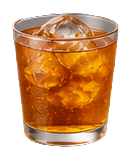
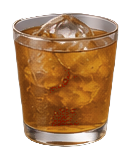
Add files via upload

diff --git a/public/app.js b/public/app.js
@@ -2525,6 +2525,10 @@ function touchDrinkLineup() {
   db.drinkLineupUpdated = Math.max(Date.now(), Number(db.drinkLineupUpdated || 0) + 1);
   db.updated = Math.max(Date.now(), Number(db.updated || 0) + 1);
 }
+function touchDrinkRecipes() {
+  db.drinkRecipesUpdated = Math.max(Date.now(), Number(db.drinkRecipesUpdated || 0) + 1);
+  db.updated = Math.max(Date.now(), Number(db.updated || 0) + 1);
+}
 async function syncDrinkLineup() {
   const response = await fetch('/api/drink-lineup', {
     method: 'PUT', headers: { 'Content-Type': 'application/json' },
@@ -2536,6 +2540,65 @@ async function syncDrinkLineup() {
   db.drinkLineup = Array.isArray(result.drinkLineup) ? result.drinkLineup : db.drinkLineup;
   db.drinkLineupUpdated = Number(result.drinkLineupUpdated || Date.now());
   saveLocalDb();
+}
+
+// ドリンク商品CSV／Excelを読み込み、全イベント共通のラインナップとしてクラウドへ保存する。
+async function importDrinkLineup(file) {
+  if (!file) return;
+  try {
+    let rows;
+    if (/\.csv$/i.test(file.name)) {
+      let content = await file.text();
+      // Excelで保存されたShift-JIS CSVにも対応する。
+      if (content.includes("�")) {
+        const buffer = await file.arrayBuffer();
+        content = new TextDecoder("shift_jis").decode(buffer);
+      }
+      rows = parseMemberCSVRows(content);
+    } else {
+      if (!window.XLSX) throw new Error("Excel読み込みライブラリを読み込めません。CSV形式で保存して取り込んでください。");
+      const workbook = window.XLSX.read(await file.arrayBuffer(), { type: "array" });
+      const sheet = workbook.Sheets[workbook.SheetNames[0]];
+      rows = window.XLSX.utils.sheet_to_json(sheet, { header: 1, defval: "", raw: false });
+    }
+    if (!rows?.length || rows.length < 2) throw new Error("商品データが見つかりません。");
+    const headers = rows[0].map(v => String(v || "").trim().normalize("NFKC").toLowerCase());
+    const findColumn = aliases => headers.findIndex(h => aliases.some(a => h === a || h.includes(a)));
+    const nameIndex = findColumn(["ドリンク名", "商品名", "品名", "メニュー名", "商品", "ドリンク", "name"]);
+    const priceIndex = findColumn(["販売価格", "価格", "金額", "値段", "price"]);
+    if (nameIndex < 0 || priceIndex < 0) throw new Error("列名を判別できません。『ドリンク名（または商品名）』と『価格』の列を用意してください。");
+    const previous = Array.isArray(db.drinkLineup) ? db.drinkLineup : defaultBarProducts();
+    const byName = new Map(previous.map(p => [normalizeRecipeName(p.name), p]));
+    const imported = [];
+    for (const row of rows.slice(1)) {
+      const name = String(row[nameIndex] ?? "").trim();
+      const priceText = String(row[priceIndex] ?? "").replace(/[￥¥,，\s円]/g, "").trim();
+      if (!name && !priceText) continue;
+      const price = Number(priceText);
+      if (!name || !Number.isFinite(price) || price <= 0) continue;
+      const old = byName.get(normalizeRecipeName(name));
+      imported.push({ id: old?.id || uid(), name, price: Math.round(price) });
+    }
+    if (!imported.length) throw new Error("有効な商品がありません。商品名と1円以上の価格を確認してください。");
+    if (imported.length > 100) throw new Error("一度に取り込める商品は100件までです。");
+    if (!confirm(`${imported.length}件の商品を取り込みます。\n現在の商品ラインナップはこの内容に置き換わり、全イベント・来場者画面に同期されます。よろしいですか？`)) return;
+    db.drinkLineup = imported;
+    touchDrinkLineup();
+    for (const event of db.events || []) {
+      if (!event.bar) continue;
+      const oldProducts = event.bar.products || [];
+      event.bar.products = imported.map(product => ({ ...product, soldOut: Boolean(oldProducts.find(x => x.id === product.id)?.soldOut) }));
+    }
+    ctx.bar = ensureBar(ctx.bar);
+    ctx.bar.products = imported.map(product => ({ ...product, soldOut: Boolean(ctx.bar.products?.find(x => x.id === product.id)?.soldOut) }));
+    await syncDrinkLineup();
+    saveBar();
+    alert(`${imported.length}件の商品を取り込み、クラウドへ同期しました。来場者画面にも反映されます。`);
+    renderBarHome();
+  } catch (error) {
+    console.error("[ドリンク商品インポート失敗]", error);
+    alert(`ドリンクデータの読み込み・同期に失敗しました：${error.message}`);
+  }
 }
 function normalizeMemberFilter(value) {
   return String(value || "").normalize("NFKC").toLocaleLowerCase("ja")
@@ -2681,7 +2744,7 @@ function mergeInto(t, s) {
   return t;
 }
 function dbSig() {
-  return "members=" + (db.membersUpdated || 0) + ":" + (db.members || []).map(m => `${m.id}:${m.name}:${m.grade}:${m.nickname||""}`).join("|") + "||lineup=" + (db.drinkLineup || []).map(p => `${p.id}:${p.name}:${p.price}`).join("|") + ":" + (db.drinkLineupUpdated || 0) + "||recipes=" + (db.drinkRecipesUpdated || 0) + ":" + (db.drinkRecipes || []).map(r => `${r.productName}:${r.steps||""}`).join("|") + "||" + db.events.map(e => e.id + ":" + ["meta", "rec", "bar", "tt", "gallery"].map(p => (e.u || {})[p] || 0).join(",") + ":sales=" + (e.bar?.sales || []).map(x => x.id).sort().join(".") + ":deletedSales=" + (e.bar?.deletedSales || []).map(x => `${x.sale?.id}:${x.deletedAt}:${x.restoredAt||0}`).sort().join(".") + ":hist=" + (e.state?.receptionHistory || []).map(x => x.id).sort().join(".") + ":deletedRec=" + (e.state?.deletedReceptionHistory || []).map(x => `${x.entry?.id}:${x.deletedAt}:${x.restoredAt||0}`).sort().join(".") + ":reset=" + Number(e.bar?.resetAt || 0)).join("|");
+  return "members=" + (db.membersUpdated || 0) + ":" + (db.members || []).map(m => `${m.id}:${m.name}:${m.grade}:${m.nickname||""}`).join("|") + "||lineup=" + (db.drinkLineup || []).map(p => `${p.id}:${p.name}:${p.price}`).join("|") + ":" + (db.drinkLineupUpdated || 0) + "||recipes=" + (db.drinkRecipesUpdated || 0) + ":" + (db.drinkRecipes || []).map(r => `${r.productName}:${r.steps||""}:${r.note||""}`).join("|") + "||" + db.events.map(e => e.id + ":" + ["meta", "rec", "bar", "tt", "gallery"].map(p => (e.u || {})[p] || 0).join(",") + ":sales=" + (e.bar?.sales || []).map(x => x.id).sort().join(".") + ":deletedSales=" + (e.bar?.deletedSales || []).map(x => `${x.sale?.id}:${x.deletedAt}:${x.restoredAt||0}`).sort().join(".") + ":hist=" + (e.state?.receptionHistory || []).map(x => x.id).sort().join(".") + ":deletedRec=" + (e.state?.deletedReceptionHistory || []).map(x => `${x.entry?.id}:${x.deletedAt}:${x.restoredAt||0}`).sort().join(".") + ":reset=" + Number(e.bar?.resetAt || 0)).join("|");
 }
 function setSync(t) { const e = document.getElementById("sync"); if (e) e.textContent = t; }
 function saveLocalDb() { try { localStorage.setItem(DB_KEY, JSON.stringify(db)); } catch {} }
@@ -2693,11 +2756,16 @@ function persistDb() {
 }
 async function syncPush() {
   try {
-    const r = await fetch("/api/db", { method: "PUT", body: JSON.stringify(db) });
-    if (!r.ok) throw 0;
+    const r = await fetch("/api/db", { method: "PUT", headers: { "Content-Type": "application/json" }, body: JSON.stringify(db) });
+    if (!r.ok) throw new Error(`HTTP ${r.status}`);
     applyRemote(await r.json());
     setSync("☁ 同期済み");
-  } catch { setSync("オフライン（この端末に保存済み）"); }
+    return true;
+  } catch (error) {
+    console.error("[クラウド同期失敗]", error);
+    setSync("オフライン（この端末に保存済み）");
+    return false;
+  }
 }
 async function syncPull() {
   try {
@@ -3835,8 +3903,12 @@ async function importDrinkRecipes(file) {
       if (existing) { Object.assign(existing, value); updated++; } else { db.drinkRecipes = [...(db.drinkRecipes || []), value]; added++; }
     }
     if (!added && !updated) throw new Error("取り込める作り方がありませんでした。商品名と作り方を確認してください。");
-    db.drinkRecipesUpdated = Date.now(); persistDb();
-    alert(`作り方の取り込みが完了しました。\n新規：${added}件／更新：${updated}件${skipped ? `／空欄スキップ：${skipped}行` : ""}`);
+    touchDrinkRecipes();
+    saveLocalDb();
+    clearTimeout(pushTimer);
+    const synced = await syncPush();
+    if (!synced) throw new Error("作り方データをクラウドへ保存できませんでした。通信状態とログイン状態を確認して、もう一度取り込んでください。");
+    alert(`作り方の取り込みが完了し、クラウドへ同期しました。\n新規：${added}件／更新：${updated}件${skipped ? `／空欄スキップ：${skipped}行` : ""}`);
     renderBarHome();
   } catch (error) { console.error("[作り方インポート失敗]", error); alert(`読み込みに失敗しました：${error.message}`); }
 }
@@ -4011,6 +4083,7 @@ function renderBarHome() {
     <div class="product-management">
       <div class="card-title">商品・価格の設定</div>
       <p class="sub-text">ここで登録したドリンクラインナップは、すべてのイベント回で共通して使われます。商品を削除・追加すると、他の回にも反映されます。販売済みの記録は残ります。</p>
+      <div class="member-import"><label>ドリンク商品をCSV／Excelから取り込む<input type="file" id="drinkProductFile" accept=".csv,.xlsx,.xls"></label><small>列名：ドリンク名（または商品名）／価格。取り込むと現在の商品一覧を置き換え、クラウド経由で全端末に同期します。</small></div>
       <div class="product-admin-list">
         ${b.products.map(p => `<div class="product-admin-row" data-product-row="${esc(p.id)}">
           <input type="text" value="${esc(p.name)}" aria-label="商品名" data-product-name="${esc(p.id)}">
@@ -4104,6 +4177,8 @@ function renderBarHome() {
   screen.querySelectorAll("[data-open-recipe]").forEach(btn => btn.onclick = () => showDrinkRecipe(btn.dataset.openRecipe));
   const recipeFileInput = $("drinkRecipeFile");
   if (recipeFileInput) recipeFileInput.onchange = async e => { await importDrinkRecipes(e.target.files?.[0]); e.target.value = ""; };
+  const drinkProductFileInput = $("drinkProductFile");
+  if (drinkProductFileInput) drinkProductFileInput.onchange = async e => { await importDrinkLineup(e.target.files?.[0]); e.target.value = ""; };
   if (selectedRecipeName && barPage === "recipes") showDrinkRecipe(selectedRecipeName);
   updateBackButton();
   const cartTotal = () => barCart.reduce((sum, x) => sum + x.price * x.qty, 0);

diff --git a/public/style.css b/public/style.css
@@ -4715,3 +4715,23 @@ button:focus-visible,.btn:focus-visible,input:focus-visible,select:focus-visible
   .recipe-product-tile .recipe-tile-art{width:56px!important;height:56px!important}
   .recipe-product-tile{grid-template-columns:minmax(0,1fr) 56px!important}
 }
+
+/* v75: 選択時のフロスト表示を全商品で均一化し、数量ボタンを正円に統一 */
+.product-tile-card .product-tile.has-selection{filter:none!important}
+.product-tile-card .product-selection-qty{
+  inset:0!important;width:100%!important;height:100%!important;box-sizing:border-box!important;
+  border:1px solid rgba(255,255,255,.72)!important;border-radius:16px!important;
+  background:rgba(235,239,246,.72)!important;
+  -webkit-backdrop-filter:blur(16px) saturate(145%)!important;
+  backdrop-filter:blur(16px) saturate(145%)!important;
+  box-shadow:inset 0 1px 0 rgba(255,255,255,.82)!important;
+}
+.product-tile-card .product-selection-qty .qty-btn{
+  appearance:none!important;-webkit-appearance:none!important;
+  display:inline-flex!important;align-items:center!important;justify-content:center!important;
+  flex:0 0 40px!important;width:40px!important;min-width:40px!important;max-width:40px!important;
+  height:40px!important;min-height:40px!important;max-height:40px!important;aspect-ratio:1/1!important;
+  box-sizing:border-box!important;padding:0!important;border-radius:50%!important;overflow:hidden!important;
+  line-height:1!important;font-variant-numeric:tabular-nums!important;
+}
+@media(max-width:560px){.product-tile-card .product-selection-qty .qty-btn{flex-basis:38px!important;width:38px!important;min-width:38px!important;max-width:38px!important;height:38px!important;min-height:38px!important;max-height:38px!important}}
